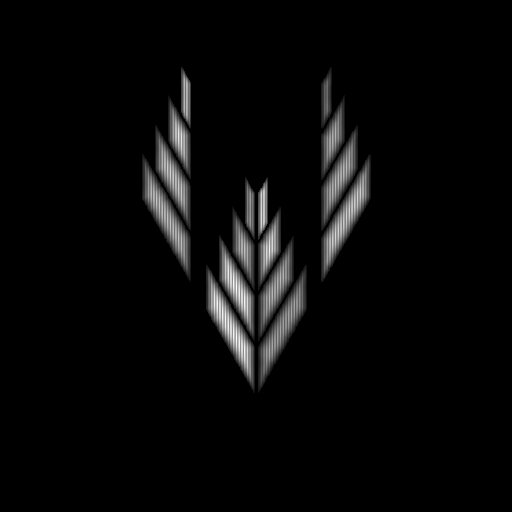
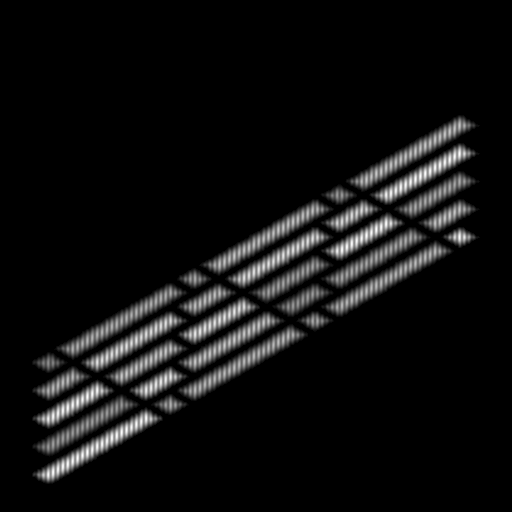
some changes

Changed region(s): [[0.0625, 0.125, 0.9375, 0.9375]]

diff --git a/motif_simulation_by_region.py b/motif_simulation_by_region.py
@@ -1,240 +1,3 @@
-# import taichi as ti
-# import numpy as np
-# import cv2
-# from PIL import Image
-
-# ti.init(arch=ti.gpu)
-# RES = (800, 600)
-# grid_cols = 200
-# grid_rows = 200
-
-# TOTAL_SIZE = (12 - 1) * 0.25
-# spacing = TOTAL_SIZE / (grid_cols - 1)
-
-# num_triangles = (grid_rows - 1) * (grid_cols - 1) * 2
-# num_vertices = grid_rows * grid_cols
-
-# #constants
-# MOTIF_PATH = "motif_4_filled 3.png"
-# USE_DISPLACEMENT = True   #displays flat iamge when set to False
-# HEIGHT_SCALE = 0.05       #scales the height displacement
- 
-# RIDGE_MASK_THRESHOLD = 0.5     # redness threshold that defines "this pixel is a stitch"
-# RIDGE_AMPLITUDE = 0.5          # max height of an individual stitch ridge
-# RIDGE_ROUNDNESS = 1.0          # >1 = flatter crown, <1 = sharper/peakier crown
-# RIDGE_HEIGHT_JITTER = 0.25     # random per-stitch height variance (tension variation)
-# RIDGE_DIST_BLUR = 1.0          # gaussian blur on the distance map smooths pixel staircase & softens tips
-# RIDGE_NOISE_AMP = 0.06         # thread surface noise on top of the ridge 0.12
-# RIDGE_NOISE_SCALE = 60         # lower = coarser noise patches higher = finer grain
-# RIDGE_SEED = 1
-
-# RED_GAIN = 2.0
-# RED_BASE_HEIGHT = 0.0     # keep at/near 0 don't want the whole patch raised, only individual stitches
-
-# DISPLACEMENT_MAP_OUT = "displacement_map.png"
-
-# vertices = ti.Vector.field(3, dtype=ti.f32, shape=num_vertices)
-# normals = ti.Vector.field(3, dtype=ti.f32, shape=num_vertices)
-# indices = ti.field(int, shape=num_triangles * 3)
-# uvs = ti.Vector.field(2, dtype=ti.f32, shape=num_vertices)
-# colors = ti.Vector.field(3, dtype=ti.f32, shape=num_vertices)
-
-# k = 512
-# texture = ti.Texture(ti.Format.rgba32f, (k, k))
-# heightmap = ti.field(dtype=ti.f32, shape=(k, k))
-
-# motif_img = Image.open(MOTIF_PATH).convert("RGB").resize((k, k), Image.BILINEAR)
-# motif_np = np.asarray(motif_img).astype(np.float32) / 255.0
-
-# motif_np = np.flipud(motif_np)
-
-# motif_field = ti.Vector.field(3, dtype=ti.f32, shape=(k, k))
-# motif_field.from_numpy(np.ascontiguousarray(motif_np))
-
-
-# @ti.kernel
-# def build_indices():
-#     for i, j in ti.ndrange(grid_rows - 1, grid_cols - 1):
-#         quad_id = i * (grid_cols - 1) + j
-#         base = i * grid_cols + j
-#         indices[quad_id * 6 + 0] = base
-#         indices[quad_id * 6 + 1] = base + grid_cols
-#         indices[quad_id * 6 + 2] = base + 1
-#         indices[quad_id * 6 + 3] = base + grid_cols + 1
-#         indices[quad_id * 6 + 4] = base + 1
-#         indices[quad_id * 6 + 5] = base + grid_cols
-
-
-# @ti.kernel
-# def build_uvs():
-#     for i, j in ti.ndrange(grid_rows, grid_cols):
-#         idx = i * grid_cols + j
-#         uvs[idx] = ti.Vector([j / (grid_cols - 1), i / (grid_rows - 1)])
-
-
-# @ti.kernel
-# def load_texture(tex: ti.types.rw_texture(num_dimensions=2, fmt=ti.Format.rgba32f, lod=0), n: ti.i32):
-#     for i, j in ti.ndrange(n, n):
-#         c = motif_field[i, j]
-#         tex.store(ti.Vector([i, j]), ti.Vector([c[0], c[1], c[2], 1.0]))
-
-
-# @ti.kernel
-# def sample_vertex_colors(tex: ti.types.texture(num_dimensions=2), n: ti.i32):
-#     for idx in range(num_vertices):
-#         uv = uvs[idx]
-#         val = tex.fetch(ti.cast(uv * n, ti.i32), 0)
-#         colors[idx] = ti.Vector([val.r, val.g, val.b])
-
-
-# def smooth_random_field(n, low_res, rng):
-#     low_res = max(2, int(low_res))
-#     small = (rng.random((low_res, low_res)).astype(np.float32) * 255).astype(np.uint8)
-#     img = Image.fromarray(small, mode="L").resize((n, n), Image.BICUBIC)
-#     return np.asarray(img).astype(np.float32) / 255.0
-
-
-# @ti.kernel
-# def build_red_mask(n: ti.i32, gain: ti.f32):
-#     # build a heightmap based on the redness of the motif image,
-#     # used as the stitch mask that individual ridges get built from
-#     for i, j in ti.ndrange(n, n):
-#         c = motif_field[i, j]
-#         r, g, b = c[0], c[1], c[2]
-#         redness = r - 0.5 * (g + b)
-#         heightmap[i, j] = ti.min(ti.max(redness * gain, 0.0), 1.0)
-
-
-# def generate_individual_stitch_ridges(n, red_mask_np, amplitude, roundness, height_jitter,
-#                                        dist_blur, noise_amp, noise_scale, seed, mask_threshold):
-    
-#     rng = np.random.default_rng(seed)
-#     mask = (red_mask_np > mask_threshold).astype(np.uint8)
-
-#     if mask.sum() == 0:
-#         return np.zeros((n, n), dtype=np.float32)
-
-#     num_labels, labels = cv2.connectedComponents(mask, connectivity=8)
-
-#     # distance from each stitch pixel to the nearest non-stitch pixel
-#     dist = cv2.distanceTransform(mask * 255, cv2.DIST_L2, 5)
-#     if dist_blur > 0:
-#         # smooths pixel-quantization staircase and rounds off tips slightly
-#         dist = cv2.GaussianBlur(dist, (0, 0), dist_blur)
-
-#     ridge = np.zeros((n, n), dtype=np.float32)
-#     jitter_per_label = 1.0 + height_jitter * (rng.random(num_labels) * 2.0 - 1.0)
-
-#     for lbl in range(1, num_labels):
-#         lbl_mask = labels == lbl
-#         local_max = dist[lbl_mask].max()
-#         if local_max < 1e-6:
-#             continue
-#         d_norm = np.clip(dist[lbl_mask] / local_max, 0.0, 1.0)
-#         # rounded (domed) profile - rises steeply off the edge, flattens near the crown,
-#         # matching the cross-section of a real embroidery thread rather than a ramp
-#         profile = np.sin(d_norm * (np.pi / 2.0)) ** roundness
-#         ridge[lbl_mask] = profile * jitter_per_label[lbl]
-
-#     ridge *= mask  # hard cutoff so background stays exactly flat, no blur bleed
-
-#     fine_noise = smooth_random_field(n, noise_scale, rng)
-#     ridge = ridge * (1.0 - noise_amp) + fine_noise * noise_amp * mask
-
-#     return (ridge * amplitude).astype(np.float32)
-
-
-# @ti.kernel
-# def build_vertices(n: ti.i32, displace: ti.i32):
-#     for i, j in ti.ndrange(grid_rows, grid_cols):
-#         idx = i * grid_cols + j
-#         u = j / (grid_cols - 1)
-#         v = i / (grid_rows - 1)
-#         x = (j * spacing) - (grid_cols - 1) * spacing / 2
-#         z = (i * spacing) - (grid_rows - 1) * spacing / 2
-#         y = 2.0
-#         if displace == 1:
-#             tx = ti.cast(u * (n - 1), ti.i32)
-#             ty = ti.cast(v * (n - 1), ti.i32)
-#             y += heightmap[tx, ty] * HEIGHT_SCALE
-#         vertices[idx] = ti.Vector([x, y, z])
-
-
-# @ti.kernel
-# def compute_normals():
-#     for i, j in ti.ndrange(grid_rows, grid_cols):
-#         idx = i * grid_cols + j
-#         i0, i1 = max(i - 1, 0), min(i + 1, grid_rows - 1)
-#         j0, j1 = max(j - 1, 0), min(j + 1, grid_cols - 1)
-#         vL = vertices[i * grid_cols + j0]
-#         vR = vertices[i * grid_cols + j1]
-#         vD = vertices[i0 * grid_cols + j]
-#         vU = vertices[i1 * grid_cols + j]
-#         tangent_x = vR - vL
-#         tangent_z = vU - vD
-#         nrm = tangent_z.cross(tangent_x).normalized()
-#         normals[idx] = nrm
-
-
-# build_indices()
-# build_uvs()
-# load_texture(texture, k)
-# sample_vertex_colors(texture, k)
-
-# build_red_mask(k, RED_GAIN)
-# red_mask_np = heightmap.to_numpy()
-
-# ridge_np = generate_individual_stitch_ridges(
-#     k,
-#     red_mask_np,
-#     RIDGE_AMPLITUDE,
-#     RIDGE_ROUNDNESS,
-#     RIDGE_HEIGHT_JITTER,
-#     RIDGE_DIST_BLUR,
-#     RIDGE_NOISE_AMP,
-#     RIDGE_NOISE_SCALE,
-#     RIDGE_SEED,
-#     RIDGE_MASK_THRESHOLD,
-# )
-
-# combined_height_np = red_mask_np * RED_BASE_HEIGHT + ridge_np
-# heightmap.from_numpy(combined_height_np.astype(np.float32))
-
-# disp_vis = combined_height_np - combined_height_np.min()
-# disp_vis = disp_vis / (np.ptp(disp_vis) + 1e-6)
-# disp_img = Image.fromarray((disp_vis * 255).astype(np.uint8), mode="L")
-# disp_img = disp_img.transpose(Image.FLIP_TOP_BOTTOM)
-# disp_img.save(DISPLACEMENT_MAP_OUT)
-# print(f"Saved displacement map to {DISPLACEMENT_MAP_OUT}")
-
-# build_vertices(k, 1 if USE_DISPLACEMENT else 0)
-# compute_normals()
-
-
-# window = ti.ui.Window("motif cloth", RES)
-# canvas = window.get_canvas()
-# scene = ti.ui.Scene()
-# camera = ti.ui.Camera()
-
-# while window.running:
-#     camera.position(0.0, 8.0, 3.0)
-#     camera.lookat(0.0, 0.0, 0.0)
-#     scene.set_camera(camera)
-
-#     scene.ambient_light((0.4, 0.4, 0.4))
-#     scene.point_light(pos=(-1.0, 3.0, 3.0), color=(1.0, 1.0, 1.0))
-
-#     scene.mesh(
-#         vertices,
-#         indices=indices,
-#         normals=normals,
-#         two_sided=True,
-#         per_vertex_color=colors,
-#     )
-
-#     canvas.scene(scene)
-#     window.show()
-
 import taichi as ti
 import numpy as np
 import cv2
@@ -258,21 +21,21 @@ motifs = {
     "3": "motif_3_filled.png",
     "4": "motif_4_filled.png"
 }
-MOTIF_PATH = motifs["4"]  
+MOTIF_PATH = motifs["2"]  
 USE_DISPLACEMENT = True   # displays flat image when set to False
 HEIGHT_SCALE = 0.05  # scales the height displacement
  
 RIDGE_MASK_THRESHOLD = 0.5 #to identify red regions
 RIDGE_AMPLITUDE = 0.8  # max height of stitch
-RIDGE_ROUNDNESS = 1.0  # >1 = flatter crown, <1 = sharper crown
-RIDGE_HEIGHT_JITTER = 0.25  # randomheight variance in stitcehs
-RIDGE_DIST_BLUR = 1.0  # gaussian blur on the distance map 
-RIDGE_NOISE_AMP = 0.06 # thread surface noise on top of the ridge
+RIDGE_ROUNDNESS = 1.4  # >1 = flatter crown, <1 = sharper crown
+RIDGE_HEIGHT_JITTER = 0.3  # randomheight variance in stitcehs
+RIDGE_DIST_BLUR = 0.7  # gaussian blur on the distance map 
+RIDGE_NOISE_AMP = 0.04 # thread surface noise on top of the ridge
 RIDGE_NOISE_SCALE = 60 # lower = coarser noise patches, higher = finer grain
 RIDGE_SEED = 1
 
 
-RIDGE_LINE_FREQUENCY = 4.0  # Adjusts the width/spacing of the vertical lines
+RIDGE_LINE_FREQUENCY = 5.0  # Adjusts the width/spacing of the vertical lines
 RIDGE_LINE_AMP = 0.3  # Depth of the vertical line carvings (0.0 to 1.0)
 
 RED_GAIN = 2.0